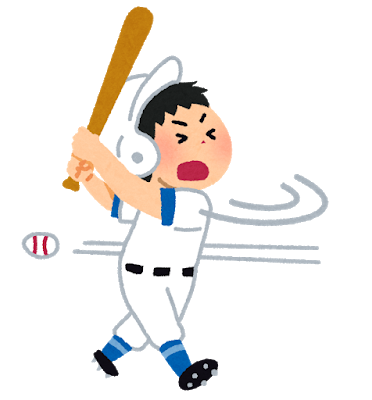
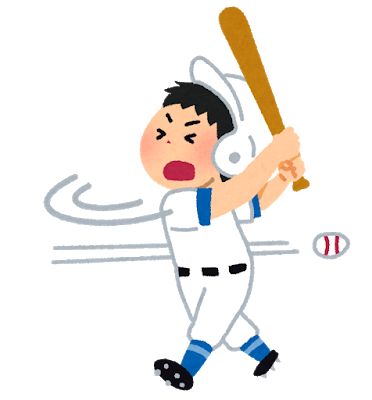
変更を加えました

Changed region(s): [[0.0591, 0.0, 0.9462, 0.99], [0.4435, 0.12, 0.4731, 0.15], [0.414, 0.15, 0.4435, 0.18]]

diff --git a/omikuji_tpl.html b/omikuji_tpl.html
@@ -8,46 +8,63 @@
 <title>おみくじ</title>
 </head>
 <body>
-
+    
+    <img class="haikei" src="./img/yakyujo.jpeg" alt="">
+<div class="body">
 <header>
-    <h1>野球</h1>
+    <h5>野球</h5>
 </header>
 
 <main>
     
-    <p id="echo"></p>
+    <p class="hantei">結果：<span id="kekka"></p>
+   
 <div class ="taisen">
-    <img src="./img/motion.png" alt="">
-    <img src="./img/utumae.png" alt="">
-</div>
-
+    <img id = "toukyugo" class="pitcher" src="./img/motion.png" alt="">
     <table border="1">
         <tr>
-          <td id="1">内角高め</td><td id="2">真ん中高め</td><td id="3">外角高め</td>
+          <td id="1">　　　</td><td id="2">　　　</td><td id="3">　　　</td>
         </tr>
         <tr>
-          <td id="4">内角</td><td id="5">真ん中</td><td id="6">外角</td>
+          <td id="4">　　　</td><td id="5">　　　</td><td id="6">　　　</td>
         </tr>
         <tr>
-          <td id="7">内角低め</td><td id="8">真ん中低め</td><td id="9">外角低め</td>
+          <td id="7">　　　</td><td id="8">　　　</td><td id="9">　　　</td>
         </tr>
-      </table>
+ </table>
+    <img id ="swinggo" class="batter" src="./img/utumae.png" alt="">
+</div>
 
 
-      <p>結果：<span id="kekka"></div></p>
-      <p>cpu:<span id="toukyu"></div></p>
+<div class="koumoku"><p class="cpu_tokyu">投球(cpu):<span id="toukyu"></p>
+ <div  class="swing"><p id="swing_button">スイング</p><p id="minogasi">見逃す</p></div>
+<p class="jibun_nerai">狙い球(あなた)：<span id="jibun"></p></div>
+    
+   
+
+    <div class="kousin">
+        <a onclick="window.location.reload(true)";>
+          <i class="fa" aria-hidden="ture"></i><span>次の球</span>
+        </a></div>
+
+        <div id="hantei_a" class="hantei_1">
+            HOME RUN
+          </div>
+    </div>
 </main>
 
-<footer>フッター</footer>
 <script>
 
 
-    const r = Math.random()*13; //小数点0.000001~0.99999
-    const n = Math.ceil(r); 
+    let r = Math.random()*13; //小数点0.000001~0.99999
+    let n = Math.ceil(r); 
 
  
 
-let i_h,i_m,i_l,m_h,m_m,m_l,o_h,o_m,o_l,naiyou,cpu;
+let i_h,i_m,i_l,m_h,m_m,m_l,o_h,o_m,o_l,naiyou,cpu,a,b;
+
+var img = document.getElementById('toukyugo');
+var img_2 = document.getElementById('swinggo');
 
 if(n==1){ //投球インハイ
     i_h = 0; //インハイ
@@ -219,49 +236,157 @@ if(n==13){ //外角ボール球
 }
 $("#1").on("click",function(){
     naiyou = i_h;
-    $("#kekka").html(naiyou);
-    $("#toukyu").html(cpu);
+    $("#jibun").html("内角高め");
 });
 $("#2").on("click",function(){
     naiyou = m_h;
-    $("#kekka").html(naiyou);
-    $("#toukyu").html(cpu);
+    $("#jibun").html("真ん中高め");
 });
 $("#3").on("click",function(){
     naiyou = o_h;
-    $("#kekka").html(naiyou);
-    $("#toukyu").html(cpu);
+    $("#jibun").html("外角高め");
 });
 $("#4").on("click",function(){
     naiyou = i_m;
-    $("#kekka").html(naiyou);
-    $("#toukyu").html(cpu);
+    $("#jibun").html("内角");
 });
 $("#5").on("click",function(){
     naiyou = m_m;
-    $("#kekka").html(naiyou);
-    $("#toukyu").html(cpu);
+    $("#jibun").html("真ん中");
 });
 $("#6").on("click",function(){
     naiyou = o_m;
-    $("#kekka").html(naiyou);
-    $("#toukyu").html(cpu);
+    $("#jibun").html("外角");
 });
 $("#7").on("click",function(){
     naiyou = i_l;
-    $("#kekka").html(naiyou);
-    $("#toukyu").html(cpu);
+    $("#jibun").html("内角低め");
 });
 $("#8").on("click",function(){
     naiyou = m_l;
-    $("#kekka").html(naiyou);
-    $("#toukyu").html(cpu);
+    $("#jibun").html("真ん中低め");
 });
 $("#9").on("click",function(){
     naiyou = o_l;
-    $("#kekka").html(naiyou);
-    $("#toukyu").html(cpu);
+    $("#jibun").html("外角低め");
 });
+
+$("#swing_button").on("click",function(){
+    a = Math.random()*2; //小数点0.000001~0.99999
+    b = Math.ceil(a); 
+    img.src = './img/nageru.png';
+    
+    if(n==1){
+        $("#1").css("background","red"); 
+    }
+    if(n==2){
+        $("#2").css("background","red"); 
+    }
+    if(n==3){
+        $("#3").css("background","red"); 
+    }
+    if(n==4){
+        $("#4").css("background","red"); 
+    }
+    if(n==5){
+        $("#5").css("background","red"); 
+    }
+    if(n==6){
+        $("#6").css("background","red"); 
+    }
+    if(n==7){
+        $("#7").css("background","red"); 
+    }
+    if(n==8){
+        $("#8").css("background","red"); 
+    }
+    if(n==9){
+        $("#9").css("background","red"); 
+    }
+
+    if(naiyou==0){
+        $("#kekka").html("ホームラン！！！");
+        img_2.src = './img/homerun.png';
+        $("#hantei_a").fadeIn(5000);
+    }
+    if(naiyou==1){
+        img_2.src = './img/hit_bonda.png';
+        if(b==1){
+            $("#kekka").html("ツーベースヒット！！");
+            
+        }
+        if(b==2){
+            $("#kekka").html("ヒット！");
+        }
+    }
+    if(naiyou==2){
+        img_2.src = './img/hit_bonda.png';
+        if(b==1){
+            $("#kekka").html("ヒット！");
+            
+        }
+        if(b==2){
+            $("#kekka").html("アウト");
+        }
+    }
+    if(naiyou==3){
+        img_2.src = './img/hit_bonda.png';
+        if(b==1){
+            $("#kekka").html("アウト");
+        }
+        if(b==2){
+            $("#kekka").html("ファール");
+        }
+    }
+    if(naiyou==4){
+        $("#kekka").html("空振り");
+        img_2.src = './img/karaburi.png';
+
+    }
+    $("#toukyu").html(cpu);
+
+});
+
+$("#minogasi").on("click",function(){
+    img_2.src = './img/minogasi.png';
+    img.src = './img/nageru.png';
+    $("#toukyu").html(cpu);
+    if(n==10 || n==11 || n== 12 || n==13){
+        $("#kekka").html("ボール");
+    }else{
+        $("#kekka").html("ストライク");
+    }
+    if(n==1){
+        $("#1").css("background","red"); 
+    }
+    if(n==2){
+        $("#2").css("background","red"); 
+    }
+    if(n==3){
+        $("#3").css("background","red"); 
+    }
+    if(n==4){
+        $("#4").css("background","red"); 
+    }
+    if(n==5){
+        $("#5").css("background","red"); 
+    }
+    if(n==6){
+        $("#6").css("background","red"); 
+    }
+    if(n==7){
+        $("#7").css("background","red"); 
+    }
+    if(n==8){
+        $("#8").css("background","red"); 
+    }
+    if(n==9){
+        $("#9").css("background","red"); 
+    }
+});
+
+
+
 
 /*
 $("#pull").on("click",function(){

diff --git a/css/yakyu.css b/css/yakyu.css
@@ -1,23 +1,134 @@
-body{
+.body{
+    position: relative;
+    margin: auto;
+    text-align:center;
+    font-size: 32px;
+    width: fit-content;
+    z-index: 2;
+}
+header{
     margin:auto;
     padding:0;
     text-align:center;
     font-size: 32px;
     width: fit-content;
-    
-
-    
-
+    padding-top: 50px;
+    font-size: 30pt;
 }
+    
 
+
+
+td{
+    background-color: rgb(216, 236, 253);
+}
 td:hover{
      background: #0066CC;
         
 }
 .taisen{
     display: flex;
+    height: 250px;
+    justify-content: center;
+    margin: 0;
+
+    .pitcher{
+        margin-right: 100px;
+    }
+    .batter{
+        margin-left: 100px;
+        table{
+            display: inline-block;
+            margin: 0;
+            text-align:center;
+        }
+    }
 
 }
 img{
     width: 200px;
+}
+
+
+.swing{
+    
+    display: flex;
+    justify-content: center;
+    margin: 0;
+    
+    
+    
+    p{
+        
+        border: 1px solid black;
+        padding: 3px;
+        background-color: rgb(216, 236, 253);
+        
+
+    }
+    
+    p:hover{
+        background: #0066CC;
+}
+}
+
+.koumoku{
+    display: flex;
+    justify-content: center;
+    margin: 0;
+    margin: auto;
+    text-align:center;
+    
+    .cpu_tokyu{
+        margin-right: 100px;
+        width: 450px;
+        background-color: rgb(216, 236, 253);
+    }
+    .jibun_nerai{
+        margin-left: 100px;
+        width: 450px;
+        background-color: rgb(216, 236, 253);
+    }
+}
+.haikei{
+    width: 100%;
+    position: absolute;
+    z-index: 1;
+}
+.hantei{
+    font-size: larger;
+    background-color: aliceblue;
+
+}
+.batter{
+     mix-blend-mode: multiply;
+}
+
+.kousin{
+    height: 80px;
+    justify-content: center;
+
+    span{
+        position: relative;
+        top: 15%;
+        border: 1px solid gray;
+        padding-right: 20px;
+        padding-left: 20px;
+
+        
+        font-size: larger;
+    }
+    span:hover{
+        background: rgba(255, 220, 107, 0.993);
+
+    }
+}
+
+.hantei_1{
+    display: none;
+    position: absolute;
+    font-size: 200px;
+    color: yellow;
+    top: 50%;
+    left: 10%;
 }
